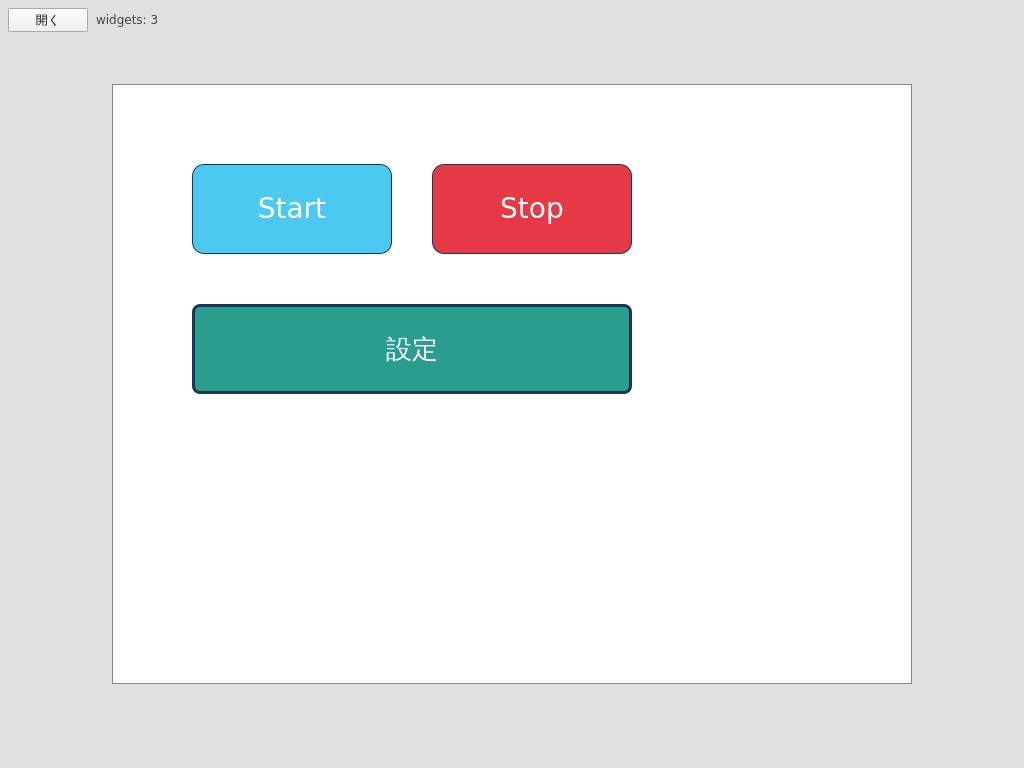
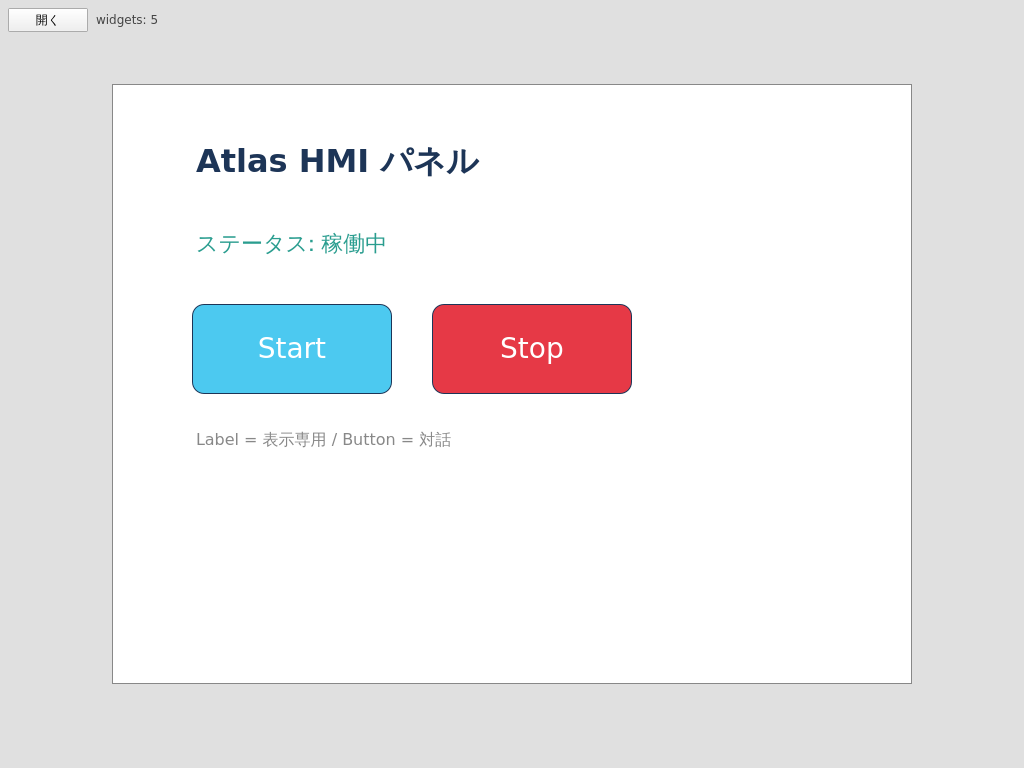
Task 49: Label round-trip + binding + E2E + simulator.png（Phase 5 クローズ）
Phase 5（Label 横展開）の最後のタスク。Label が Editor の保存経路を通って
Simulator まで届き HmiLabel として描画される（静的 + binding 追従）ことを
cross-app E2E で固定し、simulator.png に同期する。

- 新規 cross-app E2E tests/e2e/test_label_roundtrip.py（e2e_label_roundtrip）：
  Label 2 件（静的 lbl_title + binding lbl_status）+ 変数を持つ JSON を Editor に
  --open → saveTo で round-trip → 保存 JSON を直接 assert（type:"Label" / text /
  textColor / bindings / variables）→ Simulator を --open で起動し HmiLabel
  （objectName "hmiLabel"）の静的描画（text/textColor）と text バインディングの
  変数追従（"BOUND"）を getStringProperty で確認。CMake 登録で E2E 6→7 本。
- README simulator.png を Label 含むシーン（Docs/samples/task-48-label-demo.json）で
  撮り直し + キャプション更新（Label が Button と並んで描画、Label も binding 可）。
- Schema / C++ ブリッジは無改変（既存 WidgetData の往復で round-trip 成立）。
- Web ctest unit 10 + e2e 7 = 17/17 緑。
- 進捗ステータスを全常駐文書へ同期し Phase 5（Label 横展開）をクローズ。
  次の Widget（Lamp/Gauge/Image 等）は未承認＝別途スコープ確定。

Changed region(s): [[0.1875, 0.375, 0.625, 0.5312], [0.1875, 0.1875, 0.625, 0.3438], [0.1875, 0.5625, 0.4375, 0.5938]]

diff --git a/tests/e2e/test_label_roundtrip.py b/tests/e2e/test_label_roundtrip.py
@@ -1,0 +1,275 @@
+"""Phase 5 Task 49: Label の round-trip + binding を検証する cross-app E2E。
+
+Phase 5 で追加した **Label（表示専用 Widget）** が、Editor の保存経路を通って
+Simulator まで届き、`HmiLabel`（``objectName: "hmiLabel"``）として正しく描画される
+ことを検証する。Button 用の test_style_roundtrip / test_action_roundtrip の Label 版。
+
+検証スコープ：
+
+1. **Editor 段**：Label を 2 件持つ JSON（静的 Label + binding Label）と変数定義を
+   Editor に ``--open`` で読み込ませ、``saveTo`` で別パスへ保存する。Editor の
+   **load → snapshotModel → ProjectIo.save** が ``type:"Label"`` / 文字スタイル /
+   bindings / variables を round-trip することを検証する。
+2. **JSON 直接検証**：保存 JSON に Label（``type:"Label"`` + ``text`` + ``textColor``）・
+   binding・変数が乗っていることを Python で直接 assert する（Spix 非依存の
+   authoritative チェック）。
+3. **Simulator 段**：保存 JSON を Simulator に ``--open`` で読み込ませ、
+   - **静的 Label**（``lbl_title``）：``HmiLabel`` の ``text`` / ``textColor`` が
+     JSON 値どおりに描画される（静的 round-trip）。
+   - **binding Label**（``lbl_status``）：``text`` バインディングが変数 ``statusVar``
+     （初期 ``"BOUND"``）へ追従し、静的 ``text`` ``"STATIC"`` ではなく ``"BOUND"`` が
+     描画される（binding を Simulator で追従確認＝既存 ``boundValue`` 経路の再利用）。
+   いずれも ``getStringProperty`` で観測する。
+
+**Label は表示専用**＝クリックアクションを持たないため、test_action_roundtrip のような
+実クリックでの状態遷移は見ない（binding の「読み」だけを検証する）。
+
+Spix v0.14 制約・回避策は test_style_roundtrip.py / 既存 E2E と同方針：
+- レスポンスは expat を経由しない正規表現で抽出（Homebrew Python の ``_pyexpat`` 回避）。
+- 値の真偽は **保存 JSON を Python で直接 assert** することでも担保する。
+
+実行環境：E2E は macOS / Linux（``HMI_ENABLE_E2E=ON``）でのみ動く。Windows MinGW は
+``HMI_ENABLE_E2E=OFF`` のため ctest から除外される（CMakeLists.txt 参照）。
+"""
+
+from __future__ import annotations
+
+import argparse
+import json
+import os
+import re
+import sys
+import tempfile
+
+from harness import call_method, spix_app
+
+_EDITOR_WIN = "hmiEditorWindow"
+_SIM_WIN = "hmiSimulatorWindow"
+
+# 静的 Label（lbl_title）：text / textColor が round-trip して描画される。
+# textColor は HmiLabel の resolved 既定 "#1d3557" とあえて別値にし、伝播失敗時の
+# フォールバックと取り違えないようにする（test_style_roundtrip と同じ考え方）。
+_TITLE_TEXT = "TITLE"
+_TITLE_COLOR = "#2a9d8f"
+
+# binding Label（lbl_status）：静的 text は "STATIC" だが、text バインディングで
+# 変数 statusVar（初期 "BOUND"）へ追従するため、Simulator では "BOUND" が描画される。
+_STATIC_TEXT = "STATIC"
+_VAR_NAME = "statusVar"
+_VAR_INITIAL = "BOUND"
+
+
+def _fixture_json() -> dict:
+    """Label 2 件（静的 + binding）と変数定義を持つ最小プロジェクト。"""
+    return {
+        "project": "Task 49 Label E2E",
+        "variables": [
+            {"name": _VAR_NAME, "type": "string", "initial": _VAR_INITIAL},
+        ],
+        "screens": [
+            {
+                "name": "Main",
+                "widgets": [
+                    {
+                        "id": "lbl_title",
+                        "type": "Label",
+                        "x": 60,
+                        "y": 40,
+                        "width": 320,
+                        "height": 50,
+                        "text": _TITLE_TEXT,
+                        "textColor": _TITLE_COLOR,
+                        "fontSize": 28,
+                    },
+                    {
+                        "id": "lbl_status",
+                        "type": "Label",
+                        "x": 60,
+                        "y": 120,
+                        "width": 320,
+                        "height": 40,
+                        "text": _STATIC_TEXT,
+                        "bindings": [
+                            {"property": "text", "variable": _VAR_NAME}
+                        ],
+                    },
+                ],
+            }
+        ],
+    }
+
+
+def _get_str_property(url: str, path: str, prop: str) -> str:
+    """getStringProperty のレスポンスから文字列値を取り出す（test_style_roundtrip と同方針）。"""
+    body = call_method(url, "getStringProperty", path, prop)
+    m = re.search(r"<value>(?:<string>)?(.*?)(?:</string>)?</value>", body, re.DOTALL)
+    if not m:
+        raise RuntimeError(
+            f"Failed to extract {prop} from {path}. Response head: {body[:300]!r}"
+        )
+    return m.group(1).strip()
+
+
+def _exists_and_visible(url: str, path: str) -> bool:
+    """対象パスの Item が存在し可視かを Spix の existsAndVisible で確認する。"""
+    body = call_method(url, "existsAndVisible", path)
+    return "<boolean>1</boolean>" in body
+
+
+def _invoke_save_to(url: str, save_path: str) -> bool:
+    """Editor Window の ``saveTo(path)`` を invokeMethod で呼び、成功可否を返す。"""
+    body = call_method(url, "invokeMethod", _EDITOR_WIN, "saveTo", [save_path])
+    if "<fault>" in body:
+        raise RuntimeError(f"invokeMethod returned fault. Body: {body[:500]!r}")
+    return "<boolean>1</boolean>" in body
+
+
+def _phase1_editor_roundtrips_labels(editor_binary: str, port: int,
+                                     fixture_path: str, save_path: str) -> None:
+    """Editor に Label 入り fixture を ``--open`` で読ませ ``saveTo`` で保存する。
+
+    既存 Widget の編集のみで ``addWidget`` を呼ばないため Repeater 再生成の
+    巻き戻り罠（CLAUDE.md「Spix（E2E）統合の罠」節）は発生しない。
+    """
+    with spix_app(editor_binary, port, extra_args=("--open", fixture_path)) as url:
+        call_method(url, "waitForItem", f"{_EDITOR_WIN}/widget_lbl_title", 3000)
+        if not _exists_and_visible(url, f"{_EDITOR_WIN}/widget_lbl_title"):
+            raise RuntimeError("Editor did not load fixture widget_lbl_title")
+
+        if not _invoke_save_to(url, save_path):
+            err = call_method(url, "getErrors")
+            raise RuntimeError(
+                f"saveTo returned false for {save_path!r}. Errors: {err[:500]!r}"
+            )
+
+    if not os.path.isfile(save_path):
+        raise RuntimeError(f"saved JSON not found: {save_path}")
+
+
+def _assert_saved_json_has_labels(save_path: str) -> None:
+    """保存 JSON に Label（type/text/textColor）・binding・変数が乗っていることを直接検証する。"""
+    with open(save_path, encoding="utf-8") as f:
+        doc = json.load(f)
+
+    problems = []
+
+    variables = doc.get("variables", [])
+    var = next((v for v in variables if v.get("name") == _VAR_NAME), None)
+    if var is None:
+        problems.append(f"variable {_VAR_NAME!r} missing in saved JSON")
+    elif str(var.get("initial")) != _VAR_INITIAL:
+        problems.append(f"variable initial={var.get('initial')!r} != {_VAR_INITIAL!r}")
+
+    widgets = doc["screens"][0]["widgets"]
+
+    title = next((w for w in widgets if w.get("id") == "lbl_title"), None)
+    if title is None:
+        raise RuntimeError(f"lbl_title not found in saved JSON: {save_path}")
+    if title.get("type") != "Label":
+        problems.append(f"lbl_title type={title.get('type')!r} != 'Label'")
+    if title.get("text") != _TITLE_TEXT:
+        problems.append(f"lbl_title text={title.get('text')!r} != {_TITLE_TEXT!r}")
+    if title.get("textColor") != _TITLE_COLOR:
+        problems.append(f"lbl_title textColor={title.get('textColor')!r} != {_TITLE_COLOR!r}")
+
+    status = next((w for w in widgets if w.get("id") == "lbl_status"), None)
+    if status is None:
+        raise RuntimeError(f"lbl_status not found in saved JSON: {save_path}")
+    if status.get("type") != "Label":
+        problems.append(f"lbl_status type={status.get('type')!r} != 'Label'")
+    bindings = status.get("bindings", [])
+    bind = next((b for b in bindings if b.get("property") == "text"), None)
+    if bind is None:
+        problems.append("text binding missing on lbl_status")
+    elif bind.get("variable") != _VAR_NAME:
+        problems.append(f"binding variable={bind.get('variable')!r} != {_VAR_NAME!r}")
+
+    if problems:
+        raise RuntimeError("saved JSON label mismatch: " + "; ".join(problems))
+
+
+def _phase2_simulator_renders_labels(simulator_binary: str, port: int, save_path: str) -> None:
+    """Simulator を ``--open`` で起動し、HmiLabel の静的描画 + binding 追従を確認する。"""
+    with spix_app(simulator_binary, port, extra_args=("--open", save_path)) as url:
+        title_wrapper = f"{_SIM_WIN}/widget_lbl_title"
+        title_label = f"{title_wrapper}/hmiLabel"
+        status_label = f"{_SIM_WIN}/widget_lbl_status/hmiLabel"
+
+        call_method(url, "waitForItem", title_wrapper, 3000)
+        if not _exists_and_visible(url, title_wrapper):
+            raise RuntimeError(f"simulator missing widget_lbl_title. JSON: {save_path}")
+        call_method(url, "waitForItem", title_label, 3000)
+        call_method(url, "waitForItem", status_label, 3000)
+
+        problems = []
+
+        # 静的 Label：text / textColor が JSON 値どおりに描画される。
+        title_text = _get_str_property(url, title_label, "text")
+        title_color = _get_str_property(url, title_label, "textColor")
+        if title_text != _TITLE_TEXT:
+            problems.append(f"lbl_title text={title_text!r} != {_TITLE_TEXT!r}")
+        if title_color != _TITLE_COLOR:
+            problems.append(f"lbl_title textColor={title_color!r} != {_TITLE_COLOR!r}")
+
+        # binding Label：text が変数 statusVar の初期値 "BOUND" へ追従している
+        # （静的 text "STATIC" ではない）。
+        status_text = _get_str_property(url, status_label, "text")
+        if status_text != _VAR_INITIAL:
+            problems.append(
+                f"lbl_status text={status_text!r} != {_VAR_INITIAL!r} "
+                "(text binding did not follow variable)"
+            )
+
+        if problems:
+            raise RuntimeError("simulator HmiLabel mismatch: " + "; ".join(problems))
+
+
+def main() -> int:
+    """fixture 生成 → Editor round-trip 保存 → JSON 検証 → Simulator 描画確認を順に走らせる。"""
+    parser = argparse.ArgumentParser(description=__doc__)
+    parser.add_argument("--editor-binary", required=True)
+    parser.add_argument("--simulator-binary", required=True)
+    parser.add_argument("--editor-port", type=int, default=9876)
+    parser.add_argument("--simulator-port", type=int, default=9877)
+    args = parser.parse_args()
+
+    fixture_path = ""
+    save_path = ""
+    try:
+        fd, fixture_path = tempfile.mkstemp(prefix="hmi_task49_fixture_", suffix=".json")
+        with os.fdopen(fd, "w", encoding="utf-8") as f:
+            json.dump(_fixture_json(), f, ensure_ascii=False, indent=2)
+
+        fd2, save_path = tempfile.mkstemp(prefix="hmi_task49_saved_", suffix=".json")
+        os.close(fd2)
+        os.unlink(save_path)
+
+        _phase1_editor_roundtrips_labels(
+            args.editor_binary, args.editor_port, fixture_path, save_path
+        )
+        _assert_saved_json_has_labels(save_path)
+        _phase2_simulator_renders_labels(
+            args.simulator_binary, args.simulator_port, save_path
+        )
+    except Exception as exc:
+        print(f"FAIL: {exc}", file=sys.stderr)
+        return 1
+    finally:
+        for p in (fixture_path, save_path):
+            if not p:
+                continue
+            try:
+                os.unlink(p)
+            except FileNotFoundError:
+                pass
+
+    print(
+        "OK: editor round-trips Label (type/text/textColor/binding) -> saved JSON -> "
+        f"simulator renders HmiLabel text={_TITLE_TEXT!r} textColor={_TITLE_COLOR!r} "
+        f"and bound text follows {_VAR_NAME!r} -> {_VAR_INITIAL!r}"
+    )
+    return 0
+
+
+if __name__ == "__main__":
+    sys.exit(main())

diff --git a/Docs/development-history.md b/Docs/development-history.md
@@ -255,7 +255,12 @@ timeline
   - **目的**：横展開で増えた Widget 種別（Label）を Editor 上で作成でき、インスペクタを選択 Widget の種別に合わせて出し分ける（テンプレ＝インスペクタを型対応へ拡張）。
   - **成果物**：①Editor `Canvas.qml` の `addWidget()` を **`addWidget(type)`** へ一般化（省略時は後方互換で Button。Label は既定文字 "Label"・背景未指定＝HmiLabel が透明にフォールバック）②ツールバーに「ラベル追加」ボタン（objectName `addLabelButton`）を追加し、既存「追加」を「ボタン追加」へ明確化（objectName `addWidgetButton`・挙動〔Button 追加〕は据え置き＝既存 E2E 互換）③`Main.qml` に `readonly property bool selectedIsLabel`（= `canvas.selectedItem.widgetType === "Label"`）を足し、Label 選択時に**インスペクタの無関係セクション / 項目を `visible` で隠す**（状態セクション全体・クリックアクション編集〔見出し/操作/対象変数/値/区切り線〕・ボーダー色/太さ/角丸を非表示。背景色・不透明度・**バインディング編集**・基本・文字・詳細は表示）④新規 unit（Canvas）：`addWidget()` 既定 Button / `addWidget("Label")` で Label 型 + HmiLabel 描画 + 既定文字 "Label" / Label 追加の undo。
   - **完了基準**：`cmake --build` 成功 + Web `ctest`（unit 10 + e2e 6 = 16/16）緑。README `editor.png` を Label 配置シーン（`Docs/samples/task-48-label-demo.json`：Label 3 + Button 2）で撮り直し + キャプション更新（ツールバーの「ボタン追加 / ラベル追加」、Label の透明描画、型対応インスペクタを反映）。**objectName・編集ロジック・Schema は不変＝表示（`visible`）切替のみ**。
-  - **学び**：インスペクタの型対応は、セクション / 項目を構造的に分けず**既存の平坦な子へ `visible: !selectedIsLabel` を足すだけ**で実現でき、objectName・2 本立て編集ロジック・round-trip を一切変えずに済んだ（既存 E2E が参照する objectName を温存）。`selectedItem` は単一選択時のみ非 null なので、`selectedIsLabel` は複数 / 未選択で自然に false になり、単一編集フォーム（`selectedItem !== null`）の内側だけで完結する。ヘッドレス `--screenshot` は Widget 選択を伴わないため、型対応インスペクタの「選択時の出し分け」自体は editor.png には写らない（キャンバスの Label 描画 + ツールバーの新ボタンで証跡とし、出し分けは文章で補足）。次は **Task 49**（Label round-trip + binding + E2E + simulator.png）。
+  - **学び**：インスペクタの型対応は、セクション / 項目を構造的に分けず**既存の平坦な子へ `visible: !selectedIsLabel` を足すだけ**で実現でき、objectName・2 本立て編集ロジック・round-trip を一切変えずに済んだ（既存 E2E が参照する objectName を温存）。`selectedItem` は単一選択時のみ非 null なので、`selectedIsLabel` は複数 / 未選択で自然に false になり、単一編集フォーム（`selectedItem !== null`）の内側だけで完結する。ヘッドレス `--screenshot` は Widget 選択を伴わないため、型対応インスペクタの「選択時の出し分け」自体は editor.png には写らない（キャンバスの Label 描画 + ツールバーの新ボタンで証跡とし、出し分けは文章で補足）。
+- **Task 49（Label round-trip + binding + E2E + simulator.png）完了**（2026-06-12）＝**Phase 5（Label 横展開）クローズ**。
+  - **目的**：Label が Editor の保存経路を通って Simulator まで届き `HmiLabel` として描画される（静的 + binding 追従）ことを cross-app E2E で固定し、見た目を `simulator.png` に同期する。
+  - **成果物**：①新規 cross-app E2E `tests/e2e/test_label_roundtrip.py`（`e2e_label_roundtrip`、CMake 登録で E2E 6→7 本）。Label 2 件（静的 `lbl_title` + binding `lbl_status`）＋変数を持つ JSON を Editor に `--open`→`saveTo` で round-trip → 保存 JSON を直接 assert（`type:"Label"` / `text` / `textColor` / bindings / variables）→ Simulator を `--open` で起動し `HmiLabel`（objectName `hmiLabel`）の静的描画（text/textColor）と **text バインディングの変数追従**（"BOUND"）を `getStringProperty` で確認。Button 用 test_style_roundtrip / test_action_roundtrip の Label 版。②README `simulator.png` を Label 含むシーン（`Docs/samples/task-48-label-demo.json`）で撮り直し + キャプション更新（Label が Button と並んで描画 / Label も text・textColor・visible を変数バインド可）。
+  - **完了基準**：`cmake --build` 成功 + Web `ctest` unit 10 + e2e 7 = 17/17 緑。**Schema / C++ ブリッジは無改変**（Label round-trip は既存 `WidgetData` の往復で成立）。
+  - **学び**：Task 47 で delegate に Loader を挟んだが、Spix の objectName パス解決（`widget_<id>/hmiLabel`）は Loader を跨いで子孫に届く（既存 `hmiButton` E2E が Loader 化後も緑だったことで裏付け済み）。Label は表示専用＝クリックアクションを持たないため、E2E は test_action_roundtrip のような実クリック遷移は見ず、**binding の「読み」（変数 → text 追従）だけ**を検証する。これで横展開テンプレ（HmiXxx 新設 → delegate 型分岐 → 追加 UI → インスペクタ型対応 → unit + E2E + スクショ）が 1 周し、後続 Widget は同手順で足せる。**次の Widget（Lamp / Gauge / Image 等）は未承認＝別途スコープ確定**。
 
 ---
 

diff --git a/.claude/agents/mvp-task-runner.md b/.claude/agents/mvp-task-runner.md
@@ -18,7 +18,7 @@ model: opus
 - **Phase 4 / Button 縦スライス（Task 25〜32）**：✅ 完了済み（旧 Phase 4〔Task 25〜30〕＋旧 Phase 5〔Task 31〜32〕を 1 本に統合）。選択・インスペクタ・リサイズ・削除・スタイル属性〔色・フォント・ボーダー・角丸〕の全レイヤ貫通・テスト/E2E 拡充・実機 styled 描画まで＝「Widget 追加テンプレ」確立。設計指針・Must Never・`-1` センチネル設計は `Docs/phase4-button-slice-plan.md` を参照。要点：①widgetModel は `var` 配列据え置き（編集中は live `EditableWidget` が真実、構造変更時のみ Items→配列スナップショット後に再代入、選択は id 追跡）②編集 UI は Editor のみ（Simulator/Runtime は読み取り専用）③Schema 新フィールドは optional + `isValidJson` 必須集合据え置き（`0` が正当値の数値は `-1` センチネル）④新スタイルは `HmiButton` に公開し Editor / Simulator 双方の delegate に渡す（Runtime はソース共有で自動）。
 - **Phase 4 拡張（Task 33〜43・2026-06-07 承認）**：✅ 完了済み（PR #69〜#87 + 実機撮影。A=フォント詳細 / 配置 / opacity、C=グリッドスナップ / 複数選択・整列 / コピペ / undo-redo、B=変数ストア / アクション編集 / Simulator・Runtime 実行 / 状態別スタイル / アクション round-trip E2E + 実機〔i.MX8MP〕アクション動作撮影）。進捗の正本は `Docs/phase4-button-slice-plan.md`「進捗」表。
 - **インスペクタ UX 改善（Task 44〜46）**：✅ 完了済み（T44〜45 = PR #94〔セクション化・整理〕、T46 = 色入力に色スウォッチ + ColorDialog〔undo/redo の delegate 再利用バグ修正込み〕= PR #99。objectName / Schema 不変。`Docs/inspector-ux-plan.md`）。
-- **Phase 5 / 横展開（新 Widget 種別）**：🟦 着手 — **最初の Widget = Label（承認済み）**。タスク分割は `Docs/phase5-widget-expansion-plan.md`（**Task 47** 型分岐の足場 + HmiLabel 描画 / **48** Editor で Label 作成 + インスペクタ型対応 / **49** round-trip + binding + E2E + スクショ。**Task 47 完了**＝`HmiLabel.qml` 新設 + Editor/Simulator delegate に `type` 分岐〔Loader + 2 Component〕導入。**Task 48 完了**＝ツールバー「ラベル追加」＝`addWidget(type)` 一般化 + Label 選択時にインスペクタの無関係セクションを `visible` で非表示・Web `ctest` 16/16 緑。**次は Task 49**）。要点：①Label は既存スキーマで足り **Schema / C++ ブリッジ無改変**（`type` は既に round-trip、全スタイルフィールド既存、`isValidJson` は id/type/width/height のみ必須で充足）②横展開で唯一新しいのは **delegate の「型分岐の足場」**＝現状 `Canvas.qml`/`SimulatorCanvas.qml` が常に HmiButton を生成している箇所を `type` で分岐（Loader + 2 Component）③binding（読み）は全 Widget・action（書き）は対話 Widget のみ＝**Label は表示専用で binding のみ**④`HmiLabel` も `clicked(int modifiers)` を持たせ Editor 選択結線を一様化。**後続 Widget（Lamp / Gauge / Image 等）は Label 完了後に別途承認**（自動着手しない）。
+- **Phase 5 / 横展開（新 Widget 種別）**：✅ **最初の Widget = Label 完了（Task 47〜49）**。T47 型分岐の足場 + HmiLabel 描画（`HmiLabel.qml` 新設 + delegate に `type` 分岐〔Loader + 2 Component〕）/ T48 Editor で Label 作成（`addWidget(type)` 一般化）+ インスペクタ型対応（`visible` 出し分け）/ T49 round-trip + binding + E2E `e2e_label_roundtrip` + simulator.png（Web `ctest` unit 10 + e2e 7 = 17/17 緑）。確立した横展開テンプレ：①新 Widget は `HmiXxx.qml` を resolved\* フォールバック + 選択用 `clicked(int modifiers)` で新設 ②delegate の `type` 分岐（Loader + inline Component）に分岐先追加 ③Editor 追加 UI に種別追加（`addWidget(type)` のホワイトリストも更新）④インスペクタを `selectedIsXxx` で型対応 ⑤unit + cross-app E2E + スクショ。**次の Widget（Lamp / Gauge / Image 等）は未承認＝先にユーザーとスコープ確定**（自動着手しない）。分割・進捗の正本は `Docs/phase5-widget-expansion-plan.md`。
 
 ## 実行手順
 

diff --git a/CLAUDE.md b/CLAUDE.md
@@ -11,10 +11,10 @@
 
 Yocto / i.MX8M Plus 向け Qt6 HMI ランタイムを対象に、HMI 作画ツール（Editor）・PC 試験環境（Simulator）・実機ランタイム（Runtime）・JSON スキーマ（Shared/Schema）・共有 Widget（Shared/Widgets）を統合した開発基盤。詳細は [README.md](README.md)。タスクごとの時系列まとめ（目的 / PR / 成果物 / 学び）は [Docs/development-history.md](Docs/development-history.md) — 第三者説明用で、タスク完了時に当該 Task のエントリを追記する運用候補。**苦労の多かったタスク／フェーズでは、事実だけでなく「奮闘記」（postmortem）も残す**：障害の連鎖を「どう乗り越えたか・その時の判断と心境」まで物語として `Docs/<phase>-journey.md` に記録する（役割分担＝事実・罠は development-history / dev-environment.md、"どう抜けたか・心境" は奮闘記。初出は [Docs/phase3b-runtime-journey.md](Docs/phase3b-runtime-journey.md)）。**開発環境の現状（ホスト構成・ディスク事情・WSL/Yocto ビルド環境・実機 i.MX8MP の状態）は [.claude/rules/dev-environment.md](.claude/rules/dev-environment.md) に集約**（`.claude/rules/` は git 管理＋毎セッション自動読込される Claude Code のメモリ機構。Claude の自動メモリ `~/.claude/projects/.../memory/` はマシンローカルで Windows ↔ Mac を跨がないため、マシン横断の環境知識はこちらを正とする）。
 
-**現在のフェーズ**：**Phase 5 / 横展開（新 Widget 種別）— 最初の Widget = Label を実装中。**
+**現在のフェーズ**：**Phase 5 / 横展開（新 Widget 種別）— 最初の Widget = Label 完了。次 Widget は未承認（スコープ確定待ち）。**
 
 - **完了済み**：Phase 1〜3-B（MVP / テスト基盤 / E2E / Runtime・i.MX8MP 実機描画。Task 1〜24）、**Phase 4 / Button 縦スライス + 拡張**（Task 25〜43。色・フォント・ボーダー・配置・不透明度・状態/アクションを全レイヤ貫通させ「**Widget 追加テンプレ**」を確立、実機アクション動作撮影まで）、**インスペクタ UX 改善**（Task 44〜46。セクション化 + ラベル言い換え + 色スウォッチ。PR #94 / #99）。
-- **Phase 5 進行中**：**Task 47**（型分岐の足場 + HmiLabel 描画）・**Task 48**（Editor で Label 作成 + インスペクタ型対応）完了。**次は Task 49**（Label round-trip + binding + E2E + simulator.png）。後続 Widget（Lamp / Gauge 等）は Label 完了後に別途承認。
+- **Phase 5（Label 横展開）完了**：Task 47（型分岐の足場 + HmiLabel）・Task 48（Editor で Label 作成 + インスペクタ型対応）・Task 49（round-trip + binding + E2E `e2e_label_roundtrip` + simulator.png）。**次の Widget（Lamp / Gauge / Image 等）は別途スコープ承認待ち**（未承認フェーズには自動着手しない）。
 - **Phase 5 設計の要点**：Label は既存スキーマで足り **Schema / C++ ブリッジ無改変**。横展開で唯一新しいのは delegate の「**型分岐の足場**」（`type` で HmiButton / HmiLabel を描き分け＝Loader + inline Component の 2 分岐）。**binding（変数追従＝読み）は全 Widget・action（クリック実行＝書き）は対話 Widget のみ＝Label は表示専用**。
 - **将来計画（バックログ・未着手）**：Phase 7 / Modbus TCP（[Docs/phase7-modbus-plan.md](Docs/phase7-modbus-plan.md)）。機能バックログ・要求仕様は [Docs/requirements.md](Docs/requirements.md)。
 - **進捗の正本 / 詳細**：各 plan の「進捗」表（[phase5](Docs/phase5-widget-expansion-plan.md) / [phase4](Docs/phase4-button-slice-plan.md) / [inspector-ux](Docs/inspector-ux-plan.md)）。**タスクごとの経緯・PR・学びは [development-history.md](Docs/development-history.md)**、環境の現状（CI / Yocto / 実機 / E2E プラットフォーム差）は [.claude/rules/dev-environment.md](.claude/rules/dev-environment.md) と各 skill。**この「現在のフェーズ」には最新ステータスのみ残し、完了タスクの詳細は積まない**（履歴は development-history.md へ。[memory](https://code.claude.com/docs/en/memory) のベストプラクティス）。

diff --git a/Docs/phase5-widget-expansion-plan.md b/Docs/phase5-widget-expansion-plan.md
@@ -152,7 +152,11 @@ flowchart TD
 |---|---|---|
 | 47 型分岐の足場 + HmiLabel 描画 | ✅ 完了 | #97 |
 | 48 Editor で Label 作成 + インスペクタ型対応 | ✅ 完了 | #98 |
-| 49 Label round-trip + binding + E2E + スクショ | 未着手 | — |
+| 49 Label round-trip + binding + E2E + スクショ | ✅ 完了 | #TBD |
+
+> **Phase 5（Label 横展開）完了**（Task 47〜49）。後続 Widget（Lamp / Gauge / Image 等）は別途承認。
+
+> Task 49 完了（2026-06-12）：新規 cross-app E2E `e2e_label_roundtrip`（`tests/e2e/test_label_roundtrip.py`）を追加。Label 2 件（静的 + binding）＋変数を持つ JSON を Editor に `--open`→`saveTo` で round-trip → 保存 JSON を直接 assert（`type:"Label"` / `text` / `textColor` / bindings / variables）→ Simulator を `--open` で起動し `HmiLabel`（objectName `hmiLabel`）の静的描画（text/textColor）と **text バインディングの変数追従**（"BOUND"）を `getStringProperty` で確認。E2E 6→7 本、Web `ctest` unit 10 + e2e 7 = 17/17 緑。README `simulator.png` を Label 含むシーン（`Docs/samples/task-48-label-demo.json`）で撮り直し + キャプション更新。Label は表示専用のため click action は検証せず binding の「読み」のみ。
 
 > Task 48 完了（2026-06-11）：Editor `Canvas.qml` の `addWidget()` を `addWidget(type)` へ一般化（省略時は後方互換で Button。Label は既定文字 "Label"・背景未指定＝透明フォールバック）。ツールバーに「ラベル追加」ボタン（objectName `addLabelButton`）を追加し、既存「追加」を「ボタン追加」に明確化（objectName `addWidgetButton`・挙動は据え置き＝E2E 互換）。インスペクタは選択 Widget が Label のとき**無関係セクション / 項目を `visible` で隠す**（状態セクション全体・クリックアクション編集・ボーダー色/太さ/角丸を非表示。背景色・不透明度・**バインディング編集**・基本・文字・詳細は表示）。判定は `rootWindow.selectedIsLabel`（= `selectedItem.widgetType === "Label"`）。**objectName・編集ロジック・Schema は不変＝表示切替のみ**。新規 unit（Canvas）：`addWidget()` 既定 Button / `addWidget("Label")` で Label 型 + HmiLabel 描画 + 既定文字 "Label" / Label 追加の undo。README `editor.png` を Label 配置シーン（`Docs/samples/task-48-label-demo.json`）で撮り直し + キャプション更新。Web `ctest` unit 10 + e2e 6 = 16/16 緑。次は Task 49。
 
